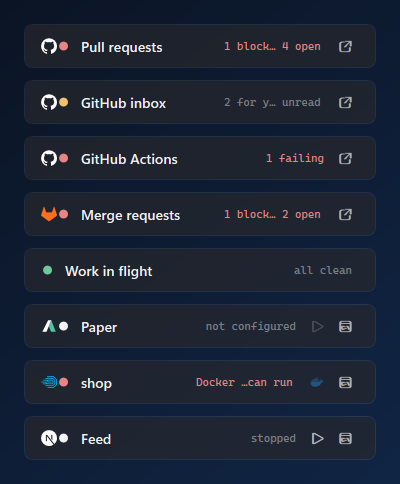
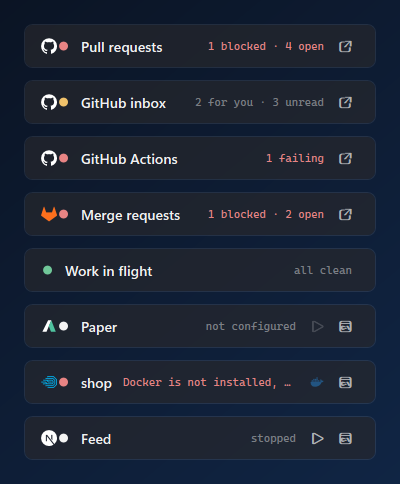
Let collapsed notes use available width

diff --git a/Windows/DevDeck.Shell/WindowsCardRenderer.cs b/Windows/DevDeck.Shell/WindowsCardRenderer.cs
@@ -696,25 +696,25 @@ public static class WindowsCardRenderer
 
     private static FrameworkElement Collapsed(JsonElement model, Action<DeckCommand> command)
     {
-        var row = new DockPanel { Height = 30 };
+        var row = new Grid { Height = 30 };
         row.ToolTip = JsonModel.String(model, "help");
-        if (JsonModel.Array(model, "actions", out var actions))
+        row.ColumnDefinitions.Add(new ColumnDefinition { Width = GridLength.Auto });
+        row.ColumnDefinitions.Add(new ColumnDefinition { Width = GridLength.Auto });
+        row.ColumnDefinitions.Add(new ColumnDefinition { Width = GridLength.Auto });
+        row.ColumnDefinitions.Add(new ColumnDefinition { Width = new GridLength(1, GridUnitType.Star) });
+
+        if (JsonModel.String(model, "mark") is { } mark)
         {
-            foreach (var action in actions.EnumerateArray().Reverse())
-            {
-                if (JsonModel.Command(action) is not { } actionCommand)
-                {
-                    continue;
-                }
-                var button = CommandButton(DeckIcons.Create(JsonModel.String(action, "glyph"), 13), actionCommand, Enabled(action), command, "HeaderIconButton");
-                button.Width = 28;
-                button.Height = 28;
-                button.ToolTip = JsonModel.String(action, "help") ?? JsonModel.String(action, "title");
-                AutomationProperties.SetName(button, JsonModel.String(action, "title") ?? "");
-                DockPanel.SetDock(button, Dock.Right);
-                row.Children.Add(button);
-            }
+            row.Children.Add(Mark(mark));
         }
+        var status = StatusDot(JsonModel.String(model, "tone"), 9);
+        Grid.SetColumn(status, 1);
+        row.Children.Add(status);
+        var title = Text(JsonModel.String(model, "title"), 14, WindowsTheme.Brush("TextPrimary"));
+        title.FontWeight = FontWeights.SemiBold;
+        title.Margin = new Thickness(6, 0, 4, 0);
+        Grid.SetColumn(title, 2);
+        row.Children.Add(title);
         if (JsonModel.String(model, "note") is { } note)
         {
             var tone = JsonModel.String(model, "tone");
@@ -724,22 +724,34 @@ public static class WindowsCardRenderer
                 tone == "alert" ? WindowsTheme.Tone(tone) : WindowsTheme.Brush("TextTertiary"),
                 WindowsTheme.Mono,
                 0,
-                DeckTextTrimming.Middle);
-            noteText.MaxWidth = 100;
+                DeckTextTrimming.End);
+            noteText.HorizontalAlignment = HorizontalAlignment.Right;
+            noteText.VerticalAlignment = VerticalAlignment.Center;
             noteText.Margin = new Thickness(7, 0, 7, 0);
-            DockPanel.SetDock(noteText, Dock.Right);
+            Grid.SetColumn(noteText, 3);
             row.Children.Add(noteText);
         }
-        if (JsonModel.String(model, "mark") is { } mark)
+
+        var actionColumn = 4;
+        if (JsonModel.Array(model, "actions", out var actions))
         {
-            row.Children.Add(Mark(mark));
+            foreach (var action in actions.EnumerateArray())
+            {
+                if (JsonModel.Command(action) is not { } actionCommand)
+                {
+                    continue;
+                }
+                row.ColumnDefinitions.Add(new ColumnDefinition { Width = GridLength.Auto });
+                var button = CommandButton(DeckIcons.Create(JsonModel.String(action, "glyph"), 13), actionCommand, Enabled(action), command, "HeaderIconButton");
+                button.Width = 28;
+                button.Height = 28;
+                button.ToolTip = JsonModel.String(action, "help") ?? JsonModel.String(action, "title");
+                AutomationProperties.SetName(button, JsonModel.String(action, "title") ?? "");
+                Grid.SetColumn(button, actionColumn);
+                row.Children.Add(button);
+                actionColumn++;
+            }
         }
-        row.Children.Add(StatusDot(JsonModel.String(model, "tone"), 9));
-        var title = Text(JsonModel.String(model, "title"), 14, WindowsTheme.Brush("TextPrimary"));
-        title.FontWeight = FontWeights.SemiBold;
-        title.MinWidth = 50;
-        title.Margin = new Thickness(6, 0, 4, 0);
-        row.Children.Add(title);
         return WindowsTheme.CollapsedCardFrame(row);
     }
 

diff --git a/Windows/DevDeck.Shell.Tests/Program.cs b/Windows/DevDeck.Shell.Tests/Program.cs
@@ -488,12 +488,29 @@ public static class Program
         True(Descendants(collapsed).OfType<TrackedTextBlock>().Any(text => text.Text == "stopped"));
         True(Descendants(collapsed).OfType<Button>().All(button => button.Width == 28));
 
+        var pullRequestModel = GoldenModels("github.pullRequests").Last().EnumerateObject().Single().Value;
+        True(JsonModel.Object(pullRequestModel, "collapsed", out var pullRequestCollapsedModel));
+        var pullRequestCollapsed = (Border)Arrange(WindowsCardRenderer.Stopped(pullRequestCollapsedModel, _ => { }));
+        var pullRequestNote = Descendants(pullRequestCollapsed).OfType<TrackedTextBlock>().Single();
+        Equal(DeckTextTrimming.End, pullRequestNote.Trimming);
+        Equal(HorizontalAlignment.Right, pullRequestNote.HorizontalAlignment);
+        var pullRequestRow = Descendants(pullRequestCollapsed).OfType<Grid>().Single();
+        Equal(GridUnitType.Star, pullRequestRow.ColumnDefinitions[3].Width.GridUnitType);
+        Equal(GridLength.Auto, pullRequestRow.ColumnDefinitions[2].Width);
+        var collapsedBitmap = new System.Windows.Media.Imaging.RenderTargetBitmap(
+            352,
+            44,
+            96,
+            96,
+            PixelFormats.Pbgra32);
+        collapsedBitmap.Render(pullRequestCollapsed);
+        Equal(pullRequestNote.Text, pullRequestNote.RenderedText);
+
         var ddevModel = GoldenModels("ddev.project.shop").Last().EnumerateObject().Single().Value;
         True(JsonModel.Object(ddevModel, "collapsed", out var ddevCollapsedModel));
         var ddevCollapsed = (Border)Arrange(WindowsCardRenderer.Stopped(ddevCollapsedModel, _ => { }));
         var title = Descendants(ddevCollapsed).OfType<TextBlock>().Single(text => text.Text == "shop");
-        True(title.ActualWidth >= 50);
-        True(Descendants(ddevCollapsed).OfType<TrackedTextBlock>().All(text => text.MaxWidth <= 100));
+        True(title.ActualWidth > 0);
     }
 
     private static void ExpandedListsReportLargerHeight()
